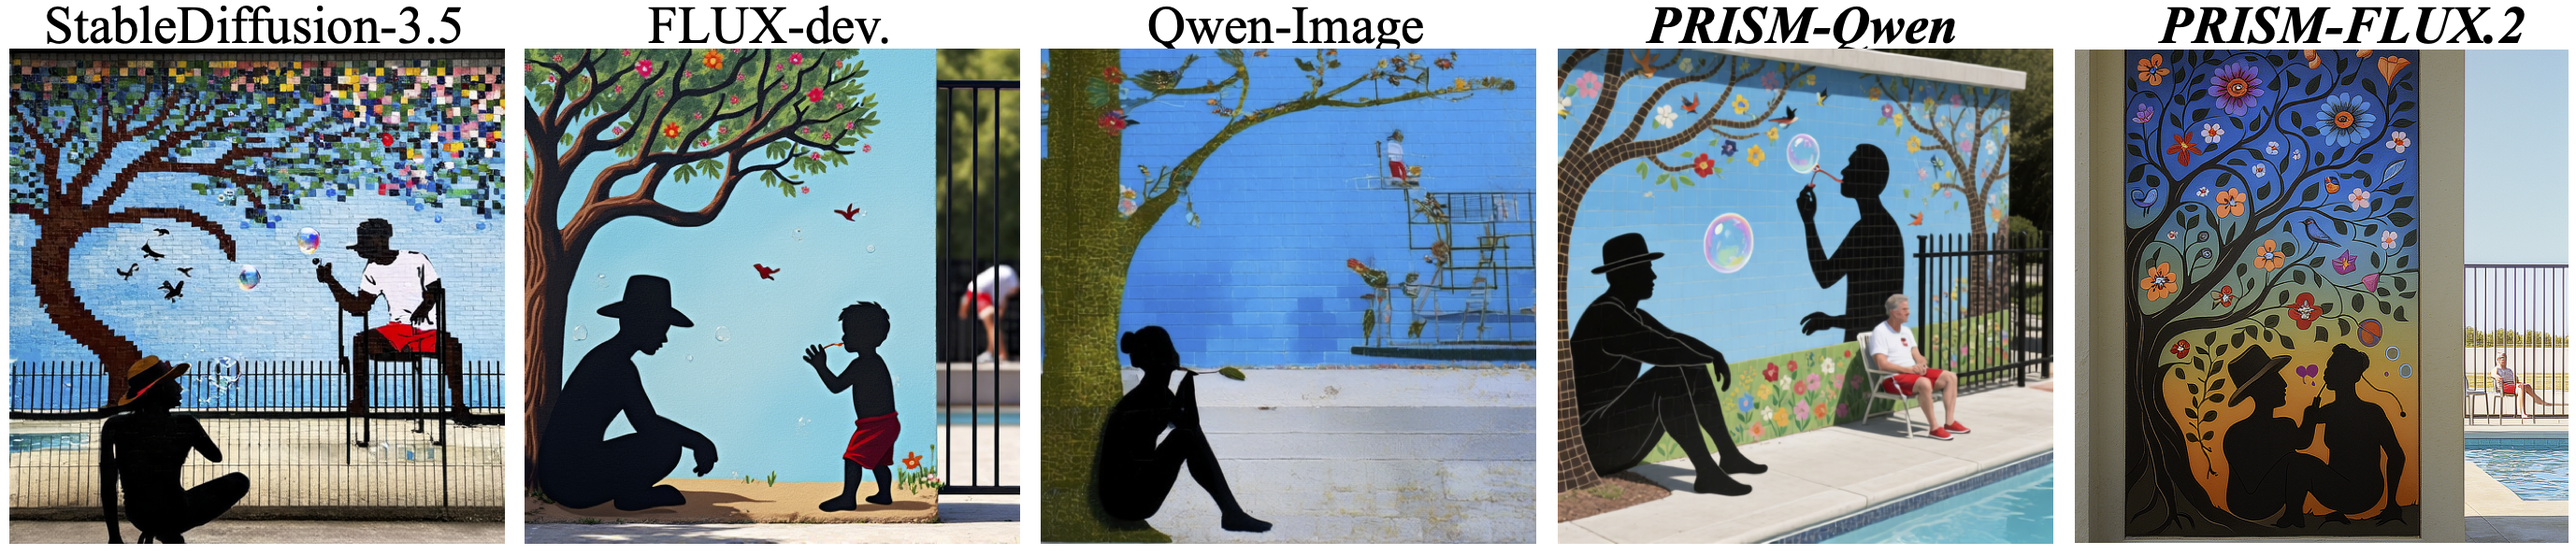
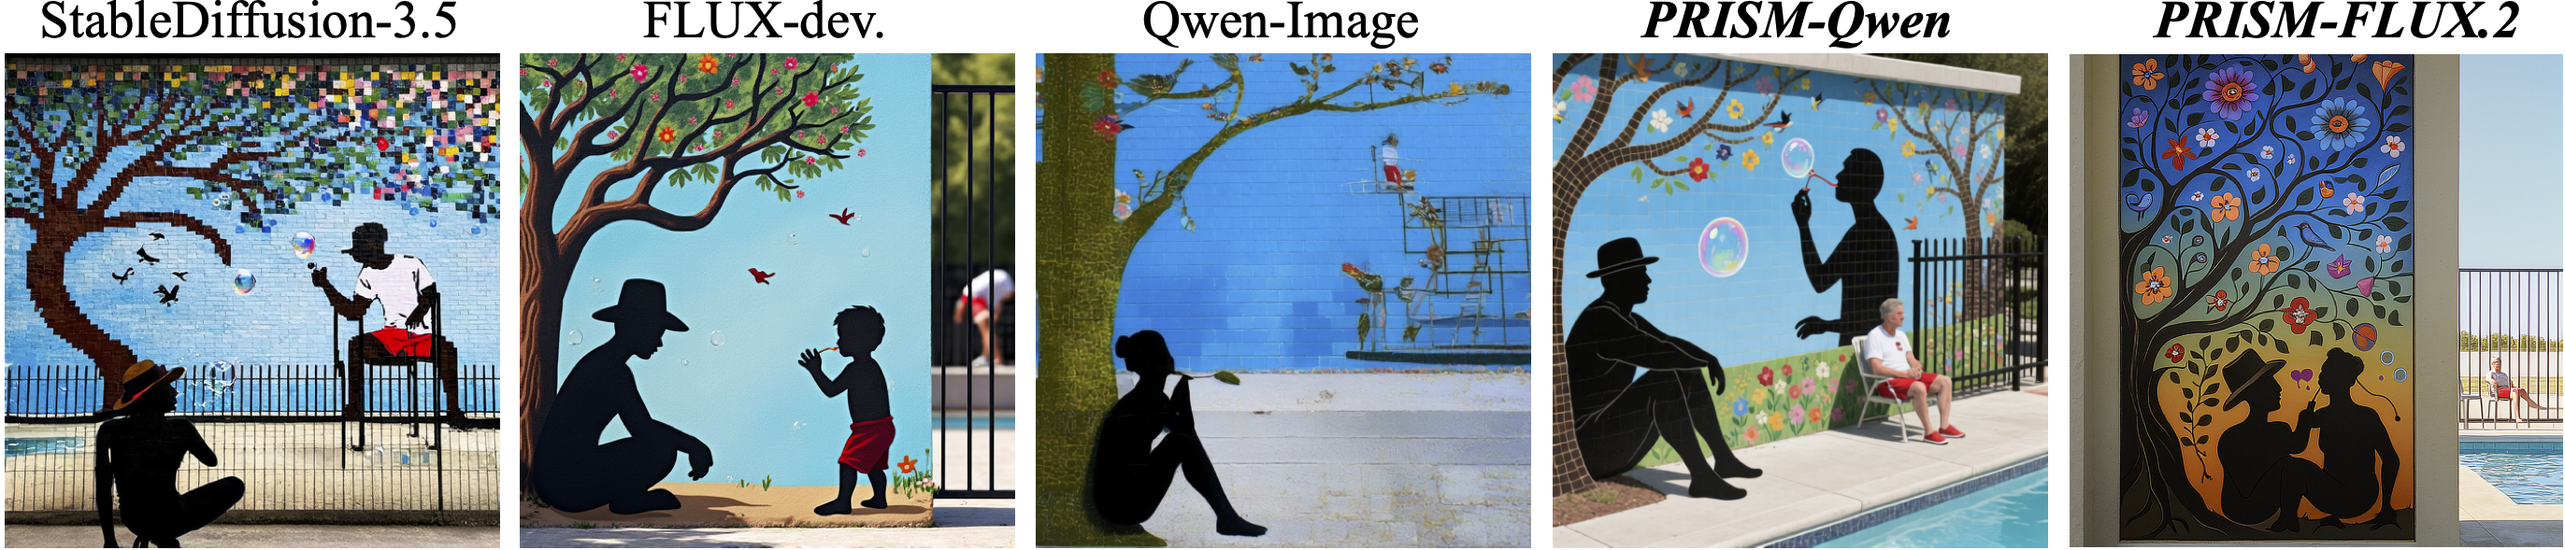
update text descriptions

diff --git a/index.html b/index.html
@@ -194,8 +194,8 @@
             Existing methods attempt to bridge the gap between long texts and T2I training paradigms through two main strategies, both of which have significant drawbacks:
           </p>
           <ul>
-            <li>Fine-Tuning: Training the T2I model directly on long-captioned data is effective within training lengths, but extrapolating to even longer prompts remains challenging. These models also risk "catastrophic forgetting" of their pre-trained knowledge.</li>
-            <li>Projection: Mapping oversized inputs into the effective context window of pre-trained models creates an information bottleneck. This sacrifices the specific, intricate details that make long prompts compelling in the first place.</li>
+            <li><strong>Fine-Tuning:</strong> Training the T2I model directly on long-captioned data is effective within training lengths, but extrapolating to even longer prompts remains challenging. These models also risk "catastrophic forgetting" of their pre-trained knowledge.</li>
+            <li><strong>Projection:</strong> Mapping oversized inputs into the effective context window of pre-trained models creates an information bottleneck. This sacrifices the specific, intricate details that make long prompts compelling in the first place.</li>
           </ul>
         </div>
           <div style="text-align: center;">
@@ -220,8 +220,8 @@
           </p>
           <ol>
             <li><strong>Extraction:</strong> PRISM uses a lightweight, trainable decomposition module to extract constituent representations (semantic components) directly from the long-prompt encoding.</li>
-            <li>Independent Prediction: At each denoising step, the pre-trained T2I model makes independent noise predictions conditioned on each extracted textual component.</li>
-            <li>Energy-Based Conjunction: These independent outputs are then merged into a single composite score using energy-based conjunction. This guides the generation process toward an image that collectively satisfies all the detailed components.</li>
+            <li><strong>Independent Prediction:</strong> At each denoising step, the pre-trained T2I model makes independent noise predictions conditioned on each extracted textual component.</li>
+            <li><strong>Energy-Based Conjunction:</strong> These independent outputs are then merged into a single composite score using energy-based conjunction. This guides the generation process toward an image that collectively satisfies all the detailed components.</li>
           </ol>
         </div>
         <div style="text-align: center;">
@@ -240,18 +240,10 @@
       <div class="column is-full-width">
         <h2 class="title is-3">Results</h2>
 
-        <h3 class="title is-4">Superior Generalization</h3>
+        <h3 class="title is-4">Improved Generalization to Long Prompts</h3>
         <div class="content has-text-justified">
           <p>
-            PRISM demonstrates superior generalization to out-of-distribution prompt lengths.
-            Unlike fine-tuning approaches that degrade performance on longer prompts beyond their training distribution,
-            PRISM's compositional nature enables it to handle arbitrarily long inputs.
-          </p>
-          <p>
-            In our experiments, PRISM consistently outperforms baseline models across all prompt length ranges,
-            with particularly strong gains on challenging long prompts—achieving 7.4% improvement on prompts over 500 tokens.
-            This generalization capability stems from decomposing long inputs into semantic components that
-            pre-trained T2I models can process effectively, regardless of total input length.
+            While fine-tuned baseline models degrade sharply on prompts exceeding their training distribution, PRISM maintains robust performance. On a challenging public benchmark, it outperforms baselines by an average of 7.4% on prompts over 500 tokens.
           </p>
         </div>
         <div style="text-align: center;">
@@ -259,6 +251,11 @@
                class="interpolation-image"
                style="max-width: 80%; height: auto; display: block; margin: 0 auto;"/>
           <p style="text-align: center;">Performance across different prompt lengths</p>
+        </div>
+        <div class="content has-text-justified">
+          <p>
+            High Fidelity Without Data Loss: Unlike projection-based methods, our factorized approach maintains high fidelity to the original paragraph by safely distributing its complex semantic load across multiple dedicated components.
+          </p>
         </div>
         <div style="text-align: center;">
           <img src="./static/images/compositional_generalization.png"
@@ -270,8 +267,7 @@
         <h3 class="title is-4">Multi-Model Compatibility</h3>
         <div class="content has-text-justified">
           <p>
-            We evaluate PRISM across multiple model architectures (SD1.5, SD3, Flux, Qwen-Image),
-            demonstrating consistent performance improvements without requiring model-specific fine-tuning.
+            PRISM is a universal framework that allows pre-trained models to operate within their domain of expertise. It is compatible with varying architectures, including those using bidirectional attention (like Stable Diffusion-3.5 and FLUX) and causal language models (like Qwen-Image).
           </p>
         </div>
         <div class="container is-fluid" style="padding: 0;">
